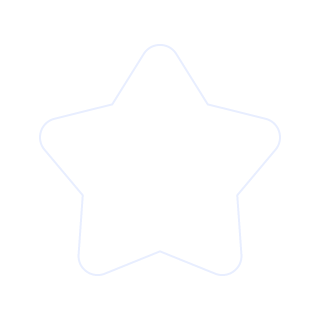
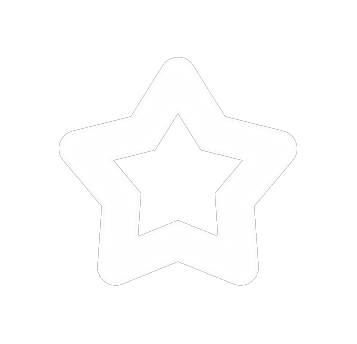
Implement glow for regular/fan chevrons
And apply consistent glow sizing

diff --git a/osu.Game.Rulesets.Sentakki/Skinning/Legacy/LegacySlideFanChevron.cs b/osu.Game.Rulesets.Sentakki/Skinning/Legacy/LegacySlideFanChevron.cs
@@ -1,9 +1,12 @@
 using osu.Framework.Allocation;
+using osu.Framework.Bindables;
 using osu.Framework.Graphics;
 using osu.Framework.Graphics.Containers;
 using osu.Framework.Graphics.Sprites;
 using osu.Game.Rulesets.Sentakki.Skinning.Common;
 using osu.Game.Skinning;
+using osuTK;
+using osuTK.Graphics;
 
 namespace osu.Game.Rulesets.Sentakki.Skinning.Legacy;
 
@@ -19,17 +22,40 @@ public partial class LegacySlideFanChevron : CompositeDrawable
         RelativeSizeAxes = Axes.Both;
     }
 
+    private IBindable<bool> exBindable = new Bindable<bool>();
+
+    private Sprite glowSprite = null!;
+
     [BackgroundDependencyLoader]
     private void load(PoolableGameplayChevron? gameplayChevron, ISkinSource skin)
     {
-        AddInternal(new Sprite
-        {
-            Anchor = Anchor.Centre,
-            Origin = Anchor.Centre,
-            RelativeSizeAxes = Axes.Both,
-            FillMode = FillMode.Fit,
+        AddRangeInternal([
+            glowSprite = new Sprite
+            {
+                Anchor = Anchor.Centre,
+                Origin = Anchor.Centre,
+                RelativeSizeAxes = Axes.Both,
+                FillMode = FillMode.Fit,
+                Scale = new Vector2(1.5f),
 
-            Texture = skin.GetTexture($"sentakki/slide-fan-chevron-{index}")
-        });
+                Texture = skin.GetTexture($"sentakki/slide-fan-chevron-{index}-glow")
+            },
+            new Sprite
+            {
+                Anchor = Anchor.Centre,
+                Origin = Anchor.Centre,
+                RelativeSizeAxes = Axes.Both,
+                FillMode = FillMode.Fit,
+
+                Texture = skin.GetTexture($"sentakki/slide-fan-chevron-{index}")
+            }
+        ]);
+
+
+        if (gameplayChevron is null)
+            return;
+
+        exBindable.BindTo(gameplayChevron.GlowBindable);
+        exBindable.BindValueChanged(e => glowSprite.Colour = e.NewValue ? Color4.White : Color4.Black, true);
     }
 }

diff --git a/osu.Game.Rulesets.Sentakki/Skinning/Legacy/LegacySlideChevron.cs b/osu.Game.Rulesets.Sentakki/Skinning/Legacy/LegacySlideChevron.cs
@@ -1,9 +1,12 @@
 using osu.Framework.Allocation;
+using osu.Framework.Bindables;
 using osu.Framework.Graphics;
 using osu.Framework.Graphics.Containers;
 using osu.Framework.Graphics.Sprites;
 using osu.Game.Rulesets.Sentakki.Skinning.Common;
 using osu.Game.Skinning;
+using osuTK;
+using osuTK.Graphics;
 
 namespace osu.Game.Rulesets.Sentakki.Skinning.Legacy;
 
@@ -16,16 +19,39 @@ public partial class LegacySlideChevron : CompositeDrawable
         RelativeSizeAxes = Axes.Both;
     }
 
+    private IBindable<bool> exBindable = new Bindable<bool>();
+
+    private Sprite glowSprite = null!;
+
     [BackgroundDependencyLoader]
     private void load(PoolableGameplayChevron? gameplayChevron, ISkinSource skin)
     {
-        AddInternal(new Sprite
-        {
-            Anchor = Anchor.Centre,
-            Origin = Anchor.Centre,
-            RelativeSizeAxes = Axes.Both,
+        AddRangeInternal([
+            glowSprite = new Sprite
+            {
+                Anchor = Anchor.Centre,
+                Origin = Anchor.Centre,
+                RelativeSizeAxes = Axes.Both,
+                FillMode = FillMode.Fit,
+                Scale = new Vector2(1.5f),
 
-            Texture = skin.GetTexture("sentakki/slide-chevron")
-        });
+                Texture = skin.GetTexture("sentakki/slide-chevron-glow")
+            },
+            new Sprite
+            {
+                Anchor = Anchor.Centre,
+                Origin = Anchor.Centre,
+                RelativeSizeAxes = Axes.Both,
+                FillMode = FillMode.Fit,
+
+                Texture = skin.GetTexture("sentakki/slide-chevron")
+            }
+        ]);
+
+        if (gameplayChevron is null)
+            return;
+
+        exBindable.BindTo(gameplayChevron.GlowBindable);
+        exBindable.BindValueChanged(e => glowSprite.Colour = e.NewValue ? Color4.White : Color4.Black, true);
     }
 }

diff --git a/osu.Game.Rulesets.Sentakki/Skinning/Legacy/LegacyHoldBody.cs b/osu.Game.Rulesets.Sentakki/Skinning/Legacy/LegacyHoldBody.cs
@@ -133,6 +133,10 @@ public partial class LegacyHoldBody : CompositeDrawable
             Anchor = Anchor.Centre,
             Origin = Anchor.Centre,
 
+            // The corner-to-corner diameter of the hexagon matches the diameter of a regular tap circle
+            // On the vertical axis is is perfect, but there are no corners on the sides, so let's adjust the drawable size so it doesn't look weird
+            Size = new Vector2(0.89f, 1.0f),
+
             Content = new Drawable[][]
             {
                 [new Sprite
@@ -141,7 +145,7 @@ public partial class LegacyHoldBody : CompositeDrawable
                     Anchor = Anchor.BottomCentre,
                     Origin = Anchor.BottomCentre,
                     Texture = capTexture,
-                    Scale = new Vector2(1.3f),
+                    Scale = new Vector2(1.5f),
                 }],
                 [new Sprite
                 {
@@ -150,7 +154,7 @@ public partial class LegacyHoldBody : CompositeDrawable
                     Origin = Anchor.Centre,
                     Texture = bodyTexture,
                     // The body doesn't have a top and bottom edge, don't scale the vertical axis so to avoid overlapping shadows
-                    Scale = new Vector2(1.3f, 1.0f),
+                    Scale = new Vector2(1.5f, 1.0f),
                 }],
                 [new Sprite
                 {
@@ -159,7 +163,7 @@ public partial class LegacyHoldBody : CompositeDrawable
                     Origin = Anchor.BottomCentre,
                     Height = -1,
                     Texture = capTexture,
-                    Scale = new Vector2(1.3f),
+                    Scale = new Vector2(1.5f),
                 }]
             }
         };

diff --git a/osu.Game.Rulesets.Sentakki/Skinning/Legacy/LegacyStarPiece.cs b/osu.Game.Rulesets.Sentakki/Skinning/Legacy/LegacyStarPiece.cs
@@ -33,10 +33,9 @@ public partial class LegacyStarPiece : CompositeDrawable
                 RelativeSizeAxes = Axes.Both,
                 Anchor = Anchor.Centre,
                 Origin = Anchor.Centre,
-                Scale = new Vector2(1.3f),
+                Scale = new Vector2(1.5f),
 
                 Texture = skin.GetTexture("sentakki/star-glow"),
-
             },
             new Sprite
             {

diff --git a/osu.Game.Rulesets.Sentakki/Skinning/Legacy/LegacyTapPiece.cs b/osu.Game.Rulesets.Sentakki/Skinning/Legacy/LegacyTapPiece.cs
@@ -35,7 +35,7 @@ public partial class LegacyTapPiece : CompositeDrawable
                 RelativeSizeAxes = Axes.Both,
                 Anchor = Anchor.Centre,
                 Origin = Anchor.Centre,
-                Scale = new Vector2(1.3f),
+                Scale = new Vector2(1.5f),
                 Texture = skin.GetTexture("sentakki/tap-glow")
             },
             new Sprite

diff --git a/osu.Game.Rulesets.Sentakki/Skinning/Common/PoolableGameplayChevron.cs b/osu.Game.Rulesets.Sentakki/Skinning/Common/PoolableGameplayChevron.cs
@@ -5,6 +5,7 @@ using osu.Framework.Graphics.Pooling;
 
 namespace osu.Game.Rulesets.Sentakki.Skinning.Common;
 
+[Cached]
 public partial class PoolableGameplayChevron : PoolableDrawable
 {
     public double DisappearThreshold { get; set; }
